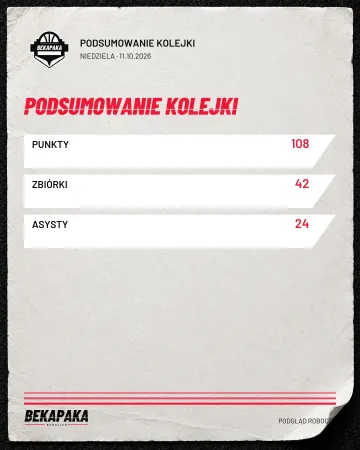
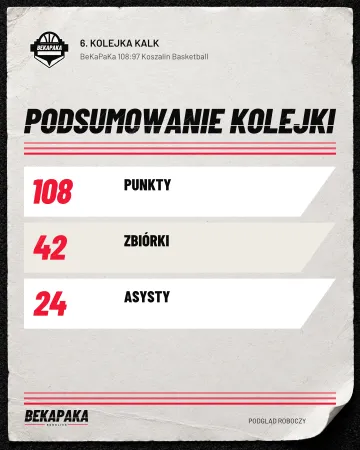
feat(studio): poster result style and paper stat cards from the 18.10 reference
Native Plakat composition for final/halftime/live (feed, story, landscape) with
kicker, hero numbers and quarters; statistics paper cards gain leaders and
two-team comparison modes (value2, unit, number, columns, subtitle). Score and
numbers are never cut. Paper footer note stays clear of the curled corner.
Design manifest and catalogue thumbnails regenerated.

diff --git a/backend/studio/post-types.js b/backend/studio/post-types.js
@@ -7,6 +7,7 @@ export const visualStyles = [
   { id: 'photo', label: 'Fotograficzny', description: 'Prawdziwe zdjęcie i treść w wydzielonych polach.' },
   { id: 'jersey', label: 'Koszulka matchday', description: 'Koszulka z rzeczywistym numerem i nazwiskiem, według wzorca stroju.' },
   { id: 'editorial', label: 'Redakcyjny', description: 'Jasny papier, typografia i uporządkowane sekcje.' },
+  { id: 'poster', label: 'Plakat', description: 'Wielki napis i wynik, dwie liczby meczu i tło hali (wzorzec 18.10.2026).' },
 ];
 const groups = [
   ['Mecz','announcement',[['preview','standard','Zapowiedź meczu'],['matchday','matchday','Dzień meczu'],['postponed','postponed','Mecz przełożony'],['cancelled','cancelled','Mecz odwołany']]],
@@ -23,7 +24,7 @@ const groups = [
 // Availability is deliberate. Source templates are draft until the owner reviews each native format.
 const compositionSpecs = {
   announcement: {styles:['sport','editorial'],source:'rdzen-v6/01a,01b; stroj-b/01',pages:[36,39]},
-  result: {styles:['sport','photo'],source:'rdzen-v6/02a,02b; stroj-b/02',pages:[36,39]},
+  result: {styles:['sport','photo','poster'],source:'rdzen-v6/02a,02b; stroj-b/02; wzorzec GMVT 2026-10-18 (plakat)',pages:[36,39]},
   lineup: {styles:['editorial'],source:'rdzen-v6/03',pages:[38]},
   player: {styles:['photo','sport'],source:'rdzen-v6/04a,04b',pages:[37,39]},
   tournament: {styles:['photo','sport'],source:'rdzen-v6/05',pages:[37]},
@@ -54,9 +55,10 @@ export function migrateDesign(project) {
   return {...project,postType:type.id,visualStyle:type.styles.includes(project.visualStyle)?project.visualStyle:type.styles[0],designVersion:DESIGN_VERSION,formats:project.formats.filter(f=>type.formats.includes(f))};
 }
 
-export const designFormats = (type, style) => style==='jersey' ? ['feed','story'] : type.formats;
+// The poster was designed for feed, story and the website cover (landscape); square stays on the board.
+export const designFormats = (type, style) => style==='jersey' ? ['feed','story'] : style==='poster' ? ['feed','story','landscape'] : type.formats;
 
 export function compositionLabel(type,style) {
- const names={announcement:{sport:'Mecz · znaki',editorial:'Typograficzny',jersey:'Koszulka matchday'},result:{sport:'Tablica wyniku',photo:'Zawodnik i wynik'},lineup:{editorial:'Koszulki na papierze'},player:{photo:'Portret · rama / MVP',sport:'Koszulka · bez portretu'},report:{editorial:'Zdjęcie w ramie'},partners:{editorial:'Równa ekspozycja'},schedule:{editorial:'Papier · paski stroju'},statistics:{editorial:'Tabela liczb'},club:{editorial:'Informacja na papierze',photo:'Fotografia i treść'},tournament:{photo:'Hero · fotografia',sport:'Typograficzny · parametry'}};
+ const names={announcement:{sport:'Mecz · znaki',editorial:'Typograficzny',jersey:'Koszulka matchday'},result:{sport:'Tablica wyniku',photo:'Zawodnik i wynik',poster:'Plakat'},lineup:{editorial:'Koszulki na papierze'},player:{photo:'Portret · rama / MVP',sport:'Koszulka · bez portretu'},report:{editorial:'Zdjęcie w ramie'},partners:{editorial:'Równa ekspozycja'},schedule:{editorial:'Papier · paski stroju'},statistics:{editorial:'Tabela liczb'},club:{editorial:'Informacja na papierze',photo:'Fotografia i treść'},tournament:{photo:'Hero · fotografia',sport:'Typograficzny · parametry'}};
  return names[type?.family]?.[style] || visualStyles.find(s=>s.id===style)?.label || style;
 }

diff --git a/backend/studio/contracts.js b/backend/studio/contracts.js
@@ -29,7 +29,13 @@ const id = z.string().min(1).max(128);
 const person = z.object({ id: text(128), firstName: text(60), lastName: text(80), number: z.string().regex(/^\d{1,3}$/).or(z.literal('')).default(''), position: text(40) }).strict();
 const sourceSchema = z.object({ subjectId: z.string().max(128).optional(), view: z.enum(['team','player','leaders']).optional(), kind: z.enum(['manual', 'match', 'player', 'event', 'news', 'standings', 'round', 'season', 'match-statistics']).default('manual'), id: text(128), seasonId: text(128), hash: text(128), fetchedAt: text(40) }).strict();
 export const projectContentSchema = z.object({
-  tableRows: z.array(z.object({ label: z.string().trim().max(100), value: z.string().trim().max(80), detail: z.string().trim().max(100).default('') }).strict()).max(60).optional(),
+  // value2: rival's value in a comparison row; unit: shown after the value („PKT”); number: shirt number (NR column).
+  tableRows: z.array(z.object({ label: z.string().trim().max(100), value: z.string().trim().max(80), detail: z.string().trim().max(100).default(''), value2: z.string().trim().max(40).default(''), unit: z.string().trim().max(12).default(''), number: z.string().regex(/^\d{1,3}$/).or(z.literal('')).default('') }).strict()).max(60).optional(),
+  // Poster and paper cards (reference publication 18.10.2026): kicker line, two hero numbers, quarters, comparison columns.
+  kicker: text(60), subtitle: text(120),
+  heroStats: z.array(z.object({ value: z.string().trim().min(1).max(12), label: z.string().trim().min(1).max(40) }).strict()).max(2).default([]),
+  quarters: z.array(z.object({ label: text(20), us: z.number().int().min(0).max(999), them: z.number().int().min(0).max(999) }).strict()).max(5).default([]),
+  columns: z.array(z.string().trim().max(12)).max(2).default([]),
   statScope: z.enum(['match','season']).optional(), attribution: z.string().trim().max(100).optional(),
   opponent: text(100), opponentShort: text(8), date: text(40), originalDate: text(40), venue: text(100), title: text(180), body: text(1500),
   scoreUs: z.number().int().min(0).max(999).nullable().default(null), scoreThem: z.number().int().min(0).max(999).nullable().default(null),
@@ -47,7 +53,7 @@ export const projectContentSchema = z.object({
   source: sourceSchema.default({ kind: 'manual', id: '', seasonId: '', hash: '', fetchedAt: '' }),
 }).strict();
 export const projectSchema = z.object({
-  postType: z.string().max(60).optional(), visualStyle: z.enum(['sport','photo','editorial','jersey']).optional(), designVersion: z.enum(['2.0.0', DESIGN_VERSION]).optional(),
+  postType: z.string().max(60).optional(), visualStyle: z.enum(['sport','photo','editorial','jersey','poster']).optional(), designVersion: z.enum(['2.0.0', DESIGN_VERSION]).optional(),
   name: z.string().trim().min(1).max(180), family: z.enum(templates.map(t => t.id)), variant: z.string().min(1).max(30), layout: z.string().min(1).max(30),
   formats: z.array(z.enum(Object.keys(formats))).min(1).max(4).refine(a => new Set(a).size === a.length, 'Formaty nie mogą się powtarzać'),
   content: projectContentSchema,

diff --git a/backend/studio/catalog-fixtures.js b/backend/studio/catalog-fixtures.js
@@ -1,7 +1,7 @@
 import { postTypes, newPostProject } from './contracts.js';
 export function fixture(type, style='sport') {
  const project=newPostProject(type.id,style);
- Object.assign(project.content,{opponent:'Koszalin Basketball',opponentShort:'KBS',date:'2026-10-11T14:30:00+02:00',originalDate:'2026-10-04T12:00:00+02:00',venue:type.family==='tournament'?'CESiR Bobolice':['announcement','result','lineup'].includes(type.family)||['training','invitation'].includes(type.variant)?'KOSiR Koszalin':'',title:type.label.toUpperCase(),body:'Gramy razem. Widzimy się na parkiecie.',scoreUs:108,scoreThem:97,edition:3,teams:8,days:1,firstName:'Paweł',lastName:'Żółkiewicz',number:'24',position:'Rozgrywający',attribution:'Zawodnik BeKaPaKa',altText:'Przykładowa kompozycja materiału klubowego.',phase:'Przerwa',photoAssetId:'photo',kitBConfirmed:true,mvpConfirmed:true,lineupConfirmed:true});
+ Object.assign(project.content,{opponent:'Koszalin Basketball',opponentShort:'KBS',date:'2026-10-11T14:30:00+02:00',originalDate:'2026-10-04T12:00:00+02:00',venue:type.family==='tournament'?'CESiR Bobolice':['announcement','result','lineup'].includes(type.family)||['training','invitation'].includes(type.variant)?'KOSiR Koszalin':'',title:type.label.toUpperCase(),body:'Gramy razem. Widzimy się na parkiecie.',scoreUs:108,scoreThem:97,edition:3,teams:8,days:1,firstName:'Paweł',lastName:'Żółkiewicz',number:'24',position:'Rozgrywający',attribution:'Zawodnik BeKaPaKa',altText:'Przykładowa kompozycja materiału klubowego.',phase:'Przerwa',photoAssetId:'photo',kitBConfirmed:true,mvpConfirmed:true,lineupConfirmed:true,kicker:'6. kolejka KALK',subtitle:'BeKaPaKa 108:97 Koszalin Basketball',heroStats:[{value:'12:0',label:'seria po przerwie'},{value:'22',label:'zbiórki w ataku'}],quarters:[{label:'1. kwarta',us:30,them:22},{label:'2. kwarta',us:25,them:28},{label:'3. kwarta',us:28,them:20},{label:'4. kwarta',us:25,them:27}]});
  project.content.lineup=Array.from({length:type.variant==='five'?5:8},(_,i)=>({id:String(i),firstName:'Paweł',lastName:'Żółkiewicz',number:String(i+1),position:'PG'}));
  project.content.schedule=Array.from({length:8},(_,i)=>({date:'2026-10-11T14:30:00+02:00',opponent:'Koszalin Basketball',round:String(i+1)}));
  project.content.slides=Array.from({length:4},()=>({title:'GRAMY RAZEM',body:'Energia zespołu na parkiecie.',assetId:'photo',altText:'Parkiet i klubowa historia.'}));

diff --git a/backend/studio/renderer/render_v3.py b/backend/studio/renderer/render_v3.py
@@ -3,11 +3,14 @@ Native Story/square/landscape coordinates are explicit adaptations requiring rev
 References and their hashes live in references/; version 2 stays immutable.
 """
 import math, re
+from pathlib import Path
 from PIL import Image, ImageChops
 from poster import C, el, width, FONTS
 import motyw as M, material as MAT, sym, kit
 from render import text, wrap, display, mark, photo, date_parts, LayoutError
 NAVY_D='#0B1E55'; NAVY_P='#0E2770'; MUT_B='#AFC0EE'
+# Default material of the poster (reference publication 18.10.2026): the three-point arc of the hall.
+POSTER_HALL=Path(__file__).resolve().parents[1]/'backgrounds'/'09-luk-za-trzy.png'
 
 def grid(p):
     # (ribbon, metadata, mark centre, mark height, score, names, panel, stripes, footer)
@@ -29,6 +32,8 @@ def foundation(p):
     p.layer('10-material')
     if p.data.get('backgroundAssetId'):
         photo(p,p.data['backgroundAssetId'],0,0,p.w,p.h)
+    elif getattr(p,'visual_style',None)=='poster':
+        p.image(POSTER_HALL,0,0,p.w,p.h,align='xMaxYMax')
     elif p.paper and p.w>p.h:
         # The paper sheet is portrait: overscan it so its torn edges and black surround stay off a landscape canvas.
         bleed=110;p.image(MAT.MAT/'lineup-paper.png',-bleed,-bleed,p.w+2*bleed,p.h+2*bleed)
@@ -51,7 +56,9 @@ def foot(p,note=None):
         M.stripes(p,p.m,sy,p.w-2*p.m,color=M.GOLD if p.family=='player' and p.variant=='mvp' else p.accent)
     sym.place(p,'wordmark-kolor' if p.paper else 'wordmark-negatyw',p.m,fy-(44 if p.w>p.h else 40),h=60 if p.w>p.h else 50)
     note=note or ('PODGLĄD ROBOCZY' if p.mode=='preview' else 'BEKAPAKA BOBOLICE')
-    text(p,note,p.w-p.m,fy,20,'body',C['black'] if p.paper else MUT_B if p.kit=='B' else C['muted'],'end',p.w-2*p.m-260)
+    # The portrait paper sheet curls at its bottom-right corner; keep the note clear of the fold.
+    fold=90 if p.paper and p.h>p.w else 0
+    text(p,note,p.w-p.m-fold,fy,20,'body',C['black'] if p.paper else MUT_B if p.kit=='B' else C['muted'],'end',p.w-2*p.m-260-fold)
 
 def mini_header(p,label):
     y=334 if p.story else 150
@@ -65,7 +72,61 @@ def metadata(p,value,y):
         p.text(value,p.w/2,y,26,'label',spacing=4,anchor='middle',fill=MUT_B if p.kit=='B' else C['muted'])
     else:wrap(p,value,p.w/2,y,p.w-2*p.m,26,'label',maxlines=2,color=MUT_B if p.kit=='B' else p.ink,anchor='middle')
 
+def venue_caps(value):
+    """Venue in capitals keeps the brand spelling of KOSiR and CESiR."""
+    return re.sub(r'\b(KOS|CES)IR\b',lambda m:m.group(1)+'iR',str(value or '').upper())
+
+# Poster geometry per native format: mark (centre y, height), headline and score (baseline, size),
+# chevron y, hero numbers (x offsets, baseline), quarters y (story only) and the meta line y.
+POSTER_LAYOUT={
+    'feed':{'mark':(215,210),'head':(560,200),'score':(822,290),'chev':860,'stats':((0,360),1045),'meta':1136},
+    'story':{'mark':(420,210),'head':(790,200),'score':(1045,290),'chev':1070,'quarters':1190,'stats':((0,360),1475),'meta':1600},
+    'square':{'mark':(170,150),'head':(430,160),'score':(640,210),'chev':None,'stats':((0,330),790),'meta':868},
+    'landscape':{'mark':(205,190),'head':(530,190),'score':(785,270),'chev':385,'stats':((882,882),(575,775)),'meta':850},
+}
+
+def poster(p):
+    """Plakat (wzorzec 18.10.2026): herb i kicker, wielki napis z przecięciem, wynik bez przecięcia,
+    szewron, dwie liczby meczu, data i hala. Wynik, godzina i hala nigdy nie są przecinane (brandbook)."""
+    d=p.data; us,them=d.get('scoreUs'),d.get('scoreThem'); scored=us is not None and them is not None
+    headline=('WYGRANA' if scored and us>them else 'PORAŻKA' if scored and us<them else 'WYNIK') if p.variant=='final' else 'PRZERWA' if p.variant=='halftime' else 'NA ŻYWO'
+    land=p.w>p.h; L=POSTER_LAYOUT[p.format_name]
+    # Dark side for the copy, the hall stays visible on the other side.
+    p.layer('15-cien')
+    p.rect(0,0,p.w,p.h,p.fade('poster-shade',0,0,p.w,0,[(0,C['black'],1),(.45 if land else .5,C['black'],.92),(.72,C['black'],.55),(1,C['black'],.2)]))
+    p.layer('20-naglowek')
+    # The mark keeps its protection zone (1/8 of its width) inside the margins and the safe area.
+    hy,hh=L['mark'];hx=p.m+hh*.7
+    mark(p,hx,hy,hh)
+    kx=hx+hh*.72
+    if d.get('kicker'):p.text(d['kicker'].upper(),kx,hy-28,28 if hh>160 else 24,'label',fill=M.GOLD,spacing=5)
+    text(p,('BEKAPAKA – '+d.get('opponent','')).upper(),kx,hy+18,32 if hh>160 else 28,'label',C['white'],maxw=(p.w*.5 if land else p.w-kx-p.m),minimum=22)
+    p.layer('30-napis')
+    span=820 if land else p.w-2*p.m
+    display(p,headline,p.m,L['head'][0],L['head'][1],C['white'],maxw=span)
+    display(p,f'{us}:{them}' if scored else '—',p.m,L['score'][0],L['score'][1],p.accent,maxw=min(span,p.w*.72),cut=False)
+    cs=110 if land else 90
+    if L['chev']:M.chevrons(p,1065 if land else p.m+cs/2,L['chev'],cs,colors=(p.accent,p.accent))
+    p.layer('40-liczby')
+    (x1,x2),ys=L['stats'];ys=ys if isinstance(ys,tuple) else (ys,ys)
+    for (sx,sy),stat in zip([(p.m+x1 if not land else x1+p.m,ys[0]),(p.m+x2 if not land else x2+p.m,ys[1])],d.get('heroStats') or []):
+        size=100 if p.format_name=='square' else 120
+        display(p,stat['value'],sx,sy,size,C['white'],maxw=300,cut=False)
+        p.text(stat['label'].upper(),sx,sy+(34 if size<120 else 40),22 if size<120 else 24,'label',fill=C['white'],spacing=4,max_width=320)
+    if L.get('quarters') and d.get('quarters'):
+        qs=d['quarters'][:4];gap=14;bw=(p.w-2*p.m-gap*(len(qs)-1))/len(qs);qy=L['quarters']
+        for i,q in enumerate(qs):
+            qx=p.m+i*(bw+gap);p.rect(qx,qy,bw,112,'#000000',opacity=.45,stroke='#F7F6F2',**{'stroke-opacity':.35,'stroke-width':2})
+            text(p,q.get('label','').upper(),qx+bw/2,qy+34,20,'label',C['muted'],'middle',bw-16)
+            display(p,f"{q['us']}:{q['them']}",qx+bw/2,qy+92,52,C['white'],'middle',bw-24,cut=False)
+    p.layer('50-meta')
+    day,_=date_parts(d.get('date','')) if d.get('date') else ('','')
+    items=[i for i in [('data',day.split(' · ')[-1]),('hala',venue_caps(d.get('venue','')))] if i[1]]
+    if items:sym.icon_row(p,items,p.m,L['meta'],size=26,text_size=22 if p.format_name=='square' else 24,color=C['white'])
+
 def result(p):
+    if p.visual_style=='poster':
+        poster(p);return
     d=p.data; ry,my,cy,mh,sy,ny,py,_,_=grid(p); delta=290 if p.w==1080 else 560
     us,them=d.get('scoreUs'),d.get('scoreThem'); final=p.variant=='final'
     label=('WYGRANA' if us>them else 'PORAŻKA' if us<them else 'WYNIK DO POTWIERDZENIA') if final and us is not None and them is not None else 'PRZERWA' if p.variant=='halftime' else 'NA ŻYWO' if p.variant=='live' else 'WYNIK'
@@ -327,24 +388,66 @@ def extension(p,part):
     # Explicit draft extensions: numerical tables, quote, photo story, information.
     if p.variant=='news' and p.w>p.h:return news_cover(p)
     from render_v2 import LABELS
-    mini_header(p,LABELS[p.post_type]);y=p.top+260;w=p.w-2*p.m
     if p.family=='statistics':
-        display(p,p.data.get('title',''),p.m,y,72,p.accent,maxw=w);y+=100
-        for i,row in enumerate(part or []):
-            M.blade_panel(p,p.m,y-40,w,100,'#FFFFFF' if p.paper else '#161616',left=False)
-            text(p,row['label'],p.m+24,y,30,'label',maxw=w*.60,minimum=24);text(p,row['value'],p.w-p.m-80,y,38,'label',p.accent,'end',w*.25,minimum=24)
-            if row.get('detail'):text(p,row['detail'],p.m+24,y+35,22,'body',maxw=w-120)
-            y+=120
+        stats_paper(p,part or []);return
+    mini_header(p,LABELS[p.post_type]);y=p.top+260;w=p.w-2*p.m
+    if p.visual_style=='photo':photo(p,p.data.get('photoAssetId'),p.m,y,w,400,p.data['crop']);y+=470
+    if p.variant=='quote':M.step_frame(p,p.m,y-80,w,500,t=6,color=p.accent,step=30)
+    title=(p.data.get('firstName','')+' '+p.data.get('lastName','')).strip() if p.variant=='birthday' else p.data.get('title','')
+    y=wrap(p,title.upper(),p.m,y,w,72,'display',maxlines=2,color=p.accent)+35
+    maxlines=min(8,int((p.bottom-150-y)/45))
+    if p.data.get('body') and maxlines<1:raise LayoutError('body: Brak miejsca na treść')
+    y=wrap(p,p.data.get('body',''),p.m,y,w,30,'body',maxlines=maxlines)+30
+    if p.variant=='quote':text(p,p.data.get('attribution',''),p.m,y,28,'label',p.accent,maxw=w)
+    if p.data.get('venue'):text(p,p.data['venue'],p.m,p.bottom-130,28,'label',maxw=w)
+
+GREY_INK='#4B4741'; CREAM='#EFEBE3'
+
+def stats_paper(p,rows):
+    """Karty na papierze (wzorzec 18.10.2026): nagłówek z herbem, tytuł z przecięciem i paski, pasy
+    naprzemiennie białe i kremowe. Liderzy: czerwona liczba z jednostką, nazwisko, szczegół i NR.
+    Porównanie (value2): etykieta, szczegół, nasza wartość na czerwono i wartość rywala na szaro."""
+    from render_v2 import LABELS
+    d=p.data;w=p.w-2*p.m;story=p.story
+    hy=334 if story else 150
+    mark(p,p.m+76,hy,116,'herb2mini')
+    text(p,(d.get('kicker') or LABELS[p.post_type]).upper(),p.m+168,hy-10,30,'label',C['black'],maxw=w-138,minimum=24)
+    if d.get('subtitle'):text(p,d['subtitle'],p.m+168,hy+28,24,'body',GREY_INK,maxw=w-138)
     else:
-        if p.visual_style=='photo':photo(p,p.data.get('photoAssetId'),p.m,y,w,400,p.data['crop']);y+=470
-        if p.variant=='quote':M.step_frame(p,p.m,y-80,w,500,t=6,color=p.accent,step=30)
-        title=(p.data.get('firstName','')+' '+p.data.get('lastName','')).strip() if p.variant=='birthday' else p.data.get('title','')
-        y=wrap(p,title.upper(),p.m,y,w,72,'display',maxlines=2,color=p.accent)+35
-        maxlines=min(8,int((p.bottom-150-y)/45))
-        if p.data.get('body') and maxlines<1:raise LayoutError('body: Brak miejsca na treść')
-        y=wrap(p,p.data.get('body',''),p.m,y,w,30,'body',maxlines=maxlines)+30
-        if p.variant=='quote':text(p,p.data.get('attribution',''),p.m,y,28,'label',p.accent,maxw=w)
-        if p.data.get('venue'):text(p,p.data['venue'],p.m,p.bottom-130,28,'label',maxw=w)
+        day,_=date_parts(d.get('date','')) if d.get('date') else ('','')
+        text(p,day,p.m+168,hy+28,22,'body',GREY_INK,maxw=w-138)
+    compare=any(r.get('value2') for r in rows)
+    ty=hy+250
+    display(p,d.get('title',''),p.m,ty,120,C['black'],maxw=w)
+    M.stripes(p,p.m,ty+26,w,color=p.accent)
+    # Comparison cards carry a column header, so their rows are a little tighter.
+    pitch,h=((140,124) if story else (156,138)) if compare else ((150,134) if story else (168,150))
+    top=ty+100
+    col_them=p.w-p.m-64-87;col_us=col_them-150
+    if compare:
+        cols=(d.get('columns') or ['BKPK','RYWAL'])+['','']
+        p.text(cols[0].upper(),col_us,top-8,22,'label',fill=p.accent,spacing=3,anchor='middle')
+        p.text(cols[1].upper(),col_them,top-8,22,'label',fill=C['black'],spacing=3,anchor='middle')
+        top+=30
+    for i,row in enumerate(rows):
+        y=top+i*pitch
+        M.blade_panel(p,p.m,y,w,h,'#FFFFFF' if i%2==0 else CREAM,left=False)
+        mid=y+h/2
+        if compare:
+            label_y=mid+(4 if not row.get('detail') else -6)
+            text(p,row['label'].upper(),p.m+30,label_y,44,'display',C['black'],maxw=col_us-p.m-130,minimum=28)
+            if row.get('detail'):text(p,row['detail'],p.m+30,label_y+38,22,'body',GREY_INK,maxw=col_us-p.m-130)
+            display(p,row['value'],col_us,mid+30,84,p.accent,'middle',140,cut=False)
+            display(p,row['value2'],col_them,mid+22,60,'#77726B','middle',130,cut=False)
+        else:
+            vx=p.m+28;display(p,row['value'],vx,mid+36,104,p.accent,maxw=170,cut=False)
+            if row.get('unit'):p.text(row['unit'].upper(),vx+(p.boxes[-1]['bounds'][2]-vx)+10,mid+36,32,'display',fill=p.accent)
+            nx=p.m+300;nr_w=200 if row.get('number') else 0
+            text(p,row['label'].upper(),nx,mid-4,48,'display',C['black'],maxw=w-300-nr_w-80,minimum=28)
+            if row.get('detail'):text(p,row['detail'],nx,mid+34,24,'body',GREY_INK,maxw=w-300-nr_w-80)
+            if row.get('number'):
+                p.text('NR',p.w-p.m-250,mid+12,22,'label',fill=GREY_INK,spacing=3)
+                display(p,row['number'],p.w-p.m-208,mid+18,44,C['black'],maxw=90,cut=False)
 
 def compose(p,part,index):
     foundation(p);p.layer('30-tresc')

diff --git a/backend/studio/renderer/test_catalog.py b/backend/studio/renderer/test_catalog.py
@@ -41,7 +41,30 @@ class CatalogTests(unittest.TestCase):
             r=render({'project':p},'feed',tmp,'preview',{},[])
             self.assertGreater(len(r['files']),1)
             texts=[b['text'] for qa in r['checks'] for b in qa['text']]
-            for i in range(40):self.assertIn('Drużyna '+str(i),texts)
+            # Paper cards print row labels in capitals (reference publication 18.10.2026).
+            for i in range(40):self.assertIn(('Drużyna '+str(i)).upper(),texts)
+    def test_poster_and_paper_cards_follow_the_reference(self):
+        # Reference publication 18.10.2026: score and numbers are never cut, comparison rows show both teams.
+        poster=next(t for t in self.catalog if t['id']=='final')['projects'][2]
+        self.assertEqual(poster['visualStyle'],'poster')
+        poster['content'].update(scoreUs=56,scoreThem=54,venue='KOSiR Koszalin')
+        team=next(t for t in self.catalog if t['id']=='team-stats')['projects'][0]
+        team['content'].update(columns=['BKPK','GMVT'],tableRows=[{'label':'Zbiórki w ataku','value':'22','value2':'9','detail':'14 pkt drugiej szansy','unit':'','number':''},{'label':'Przechwyty','value':'13','value2':'6','detail':'','unit':'','number':''}])
+        leaders=next(t for t in self.catalog if t['id']=='leaders')['projects'][0]
+        leaders['content'].update(tableRows=[{'label':'Filip Karpiński','value':'20','unit':'PKT','detail':'7 zbiórek','number':'69','value2':''}])
+        with tempfile.TemporaryDirectory() as tmp:
+            for fmt in ['feed','story','landscape']:
+                with self.subTest(format=fmt):
+                    r=render({'project':poster},fmt,tmp,'preview',{},[])
+                    texts=[b['text'] for b in r['checks'][0]['text']]
+                    self.assertFalse(r['checks'][0]['errors'])
+                    for value in ['WYGRANA','56:54','12:0','KOSiR KOSZALIN']:self.assertIn(value,texts)
+            r=render({'project':team},'feed',tmp,'preview',{},[])
+            texts=[b['text'] for b in r['checks'][0]['text']]
+            for value in ['BKPK','GMVT','ZBIÓRKI W ATAKU','22','9','13','6']:self.assertIn(value,texts)
+            r=render({'project':leaders},'feed',tmp,'preview',{},[])
+            texts=[b['text'] for b in r['checks'][0]['text']]
+            for value in ['FILIP KARPIŃSKI','20','PKT','NR','69']:self.assertIn(value,texts)
     def test_entry_information_remains_readable_in_compact_formats(self):
         p=next(t for t in self.catalog if t['id']=='preview')['projects'][0]
         p['content']['entryInfo']='WSTĘP WOLNY'
